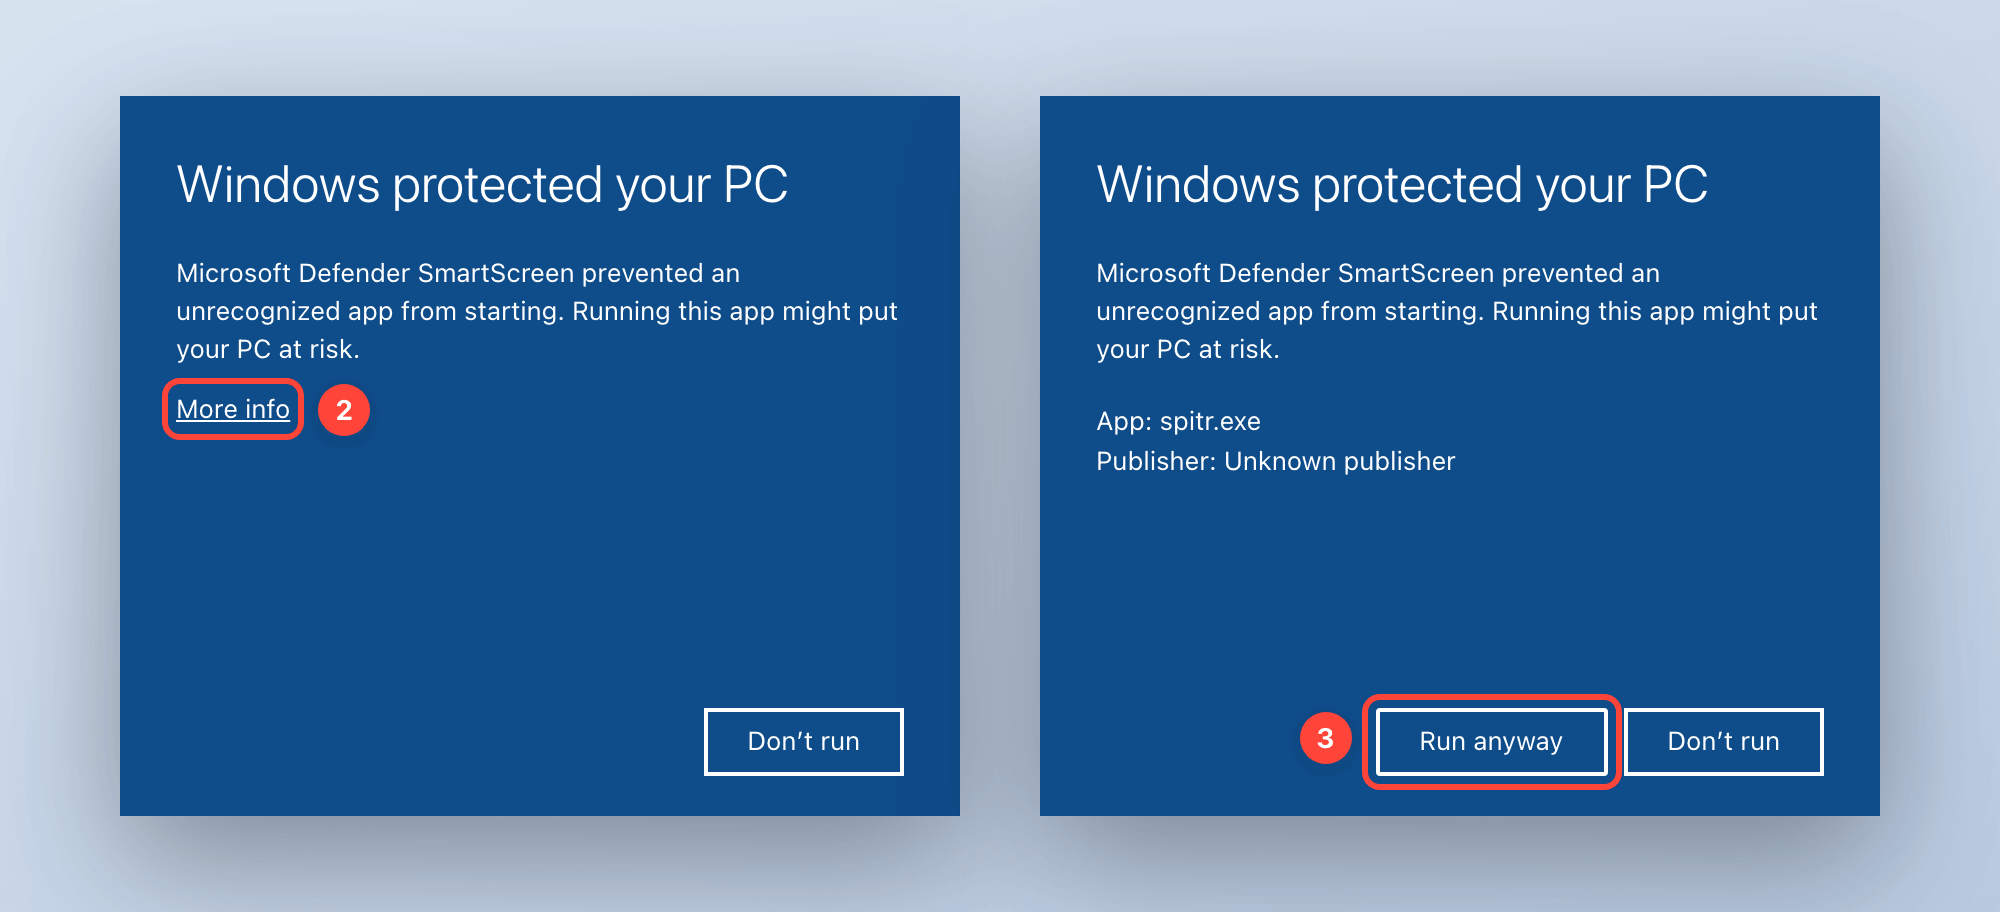
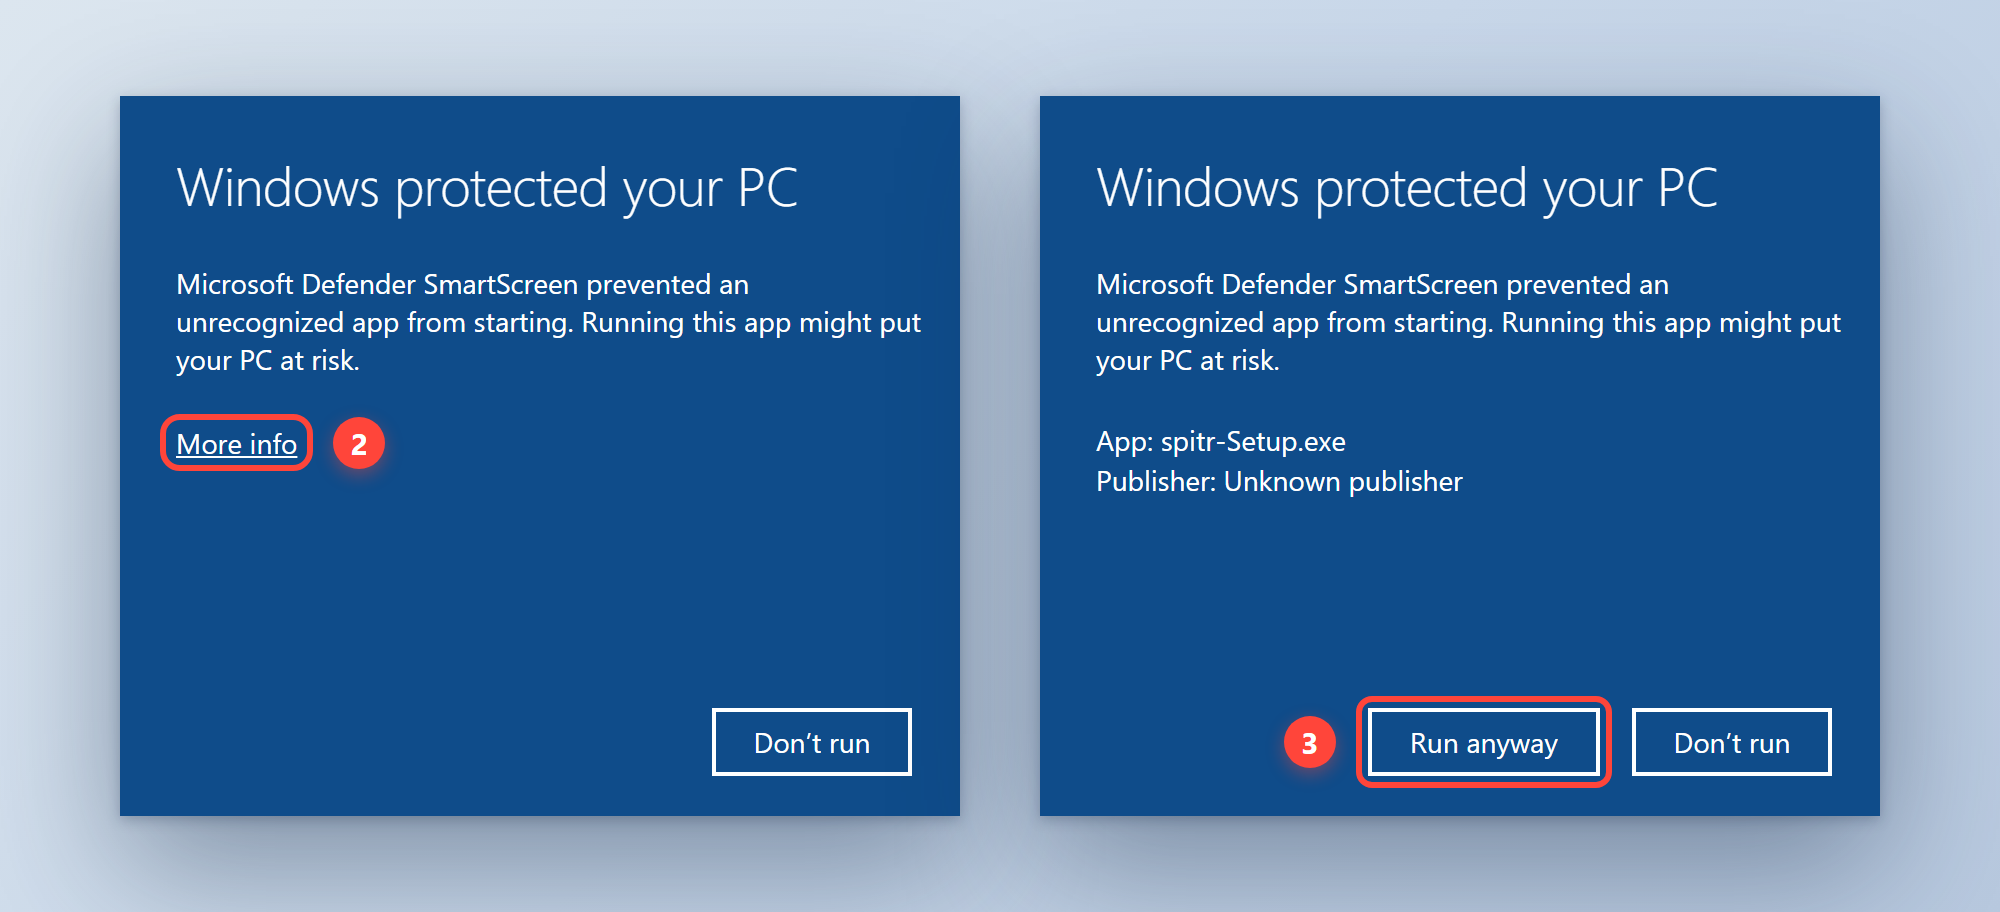
docs(windows): install guide for the Setup installer
Setup.exe replaces the zip, the speech model downloads itself, updates are
automatic, uninstall goes through Settings. New illustrations for the download,
SmartScreen and model-download steps; the setup-assistant picture now matches
the app's wording. Velopack added to the third-party notices and the Parakeet
Windows source now names Hugging Face.

diff --git a/docs/install-windows.md b/docs/install-windows.md
@@ -6,47 +6,49 @@ Requires 64-bit Windows 10 (version 2004 or later) or Windows 11. spitr for Wind
 > The pictures below are illustrations of each step, not screenshots. The buttons and settings you
 > click have the names Windows shows; the surrounding wording can differ slightly between versions.
 
-## 1. Download and unpack
+## 1. Download and run Setup
 
-1. Open the [releases page](https://github.com/MotionComplex/spitr-releases/releases) and download
-   `spitr-win-x64-<version>.zip` from the newest *spitr for Windows* release.
-2. Right-click the zip → **Extract All...** → choose a folder you keep, for example
-   `C:\Users\<you>\Apps\spitr`. spitr runs from that folder; there is no installer and no .NET to
-   install.
+1. Open the [releases page](https://github.com/MotionComplex/spitr-releases/releases) and, in the
+   newest *spitr for Windows* release, download `spitr-Setup.exe` from the **Assets** list. The
+   other files in that list are not needed for a normal install.
+2. Double-click `spitr-Setup.exe` (your browser shows it in its downloads, or open your
+   **Downloads** folder).
 
-![Right-click the zip → Extract All](images/win-1-extract.png)
+![The release's asset list, spitr-Setup.exe marked](images/win-1-download.png)
 
 ## 2. Allow the first launch
 
-The build is not code-signed, so Microsoft Defender SmartScreen stops the first launch.
+The build is not code-signed, so Microsoft Defender SmartScreen stops Setup the first time.
 
-1. Double-click `spitr.exe`. In *Windows protected your PC*, click **More info**.
-2. Check that the app is `spitr.exe`, then click **Run anyway**.
+1. In *Windows protected your PC*, click **More info**.
+2. Check that the app is `spitr-Setup.exe`, then click **Run anyway**.
 
 ![SmartScreen: More info, then Run anyway](images/win-2-smartscreen.png)
 
-Only do this for a zip you downloaded from
+Only do this for a file you downloaded from
 [github.com/MotionComplex/spitr-releases](https://github.com/MotionComplex/spitr-releases/releases).
 
-## 3. Install the speech model
+Setup installs spitr for your own Windows account only, so it does not need administrator rights.
+It puts spitr in your Start menu, adds a shortcut on your Desktop, lists it under **Settings →
+Apps**, and starts it. spitr's icon appears in the tray next to the clock; if you do not see it,
+click the **^** there. This is the only time SmartScreen stops you: updates (below) are installed
+by spitr itself and do not ask again.
 
-On Windows the speech model is not downloaded automatically yet. spitr expects NVIDIA Parakeet v3
-(the sherpa-onnx export, about 465 MB) in `%APPDATA%\spitr\models`. Open **PowerShell** (Start →
-type *PowerShell* → Enter) and paste:
+## 3. Wait for the speech model
 
-```powershell
-$dst = "$env:APPDATA\spitr\models"
-$tmp = Join-Path $env:TEMP "spitr-model"
-New-Item -ItemType Directory -Force $dst, $tmp | Out-Null
-curl.exe -L -o "$tmp\parakeet.tar.bz2" "https://github.com/k2-fsa/sherpa-onnx/releases/download/asr-models/sherpa-onnx-nemo-parakeet-tdt-0.6b-v3-int8.tar.bz2"
-tar -xf "$tmp\parakeet.tar.bz2" -C $tmp
-Get-ChildItem $tmp -Recurse -Include *.onnx, tokens.txt | Move-Item -Destination $dst -Force
-Remove-Item $tmp -Recurse -Force
-```
+The first launch opens the setup assistant. Row **01 · SPEECH MODEL** downloads NVIDIA Parakeet v3
+for you (about 670 MB, from Hugging Face) and shows how far it has got. There is nothing to
+click: keep spitr running and your computer online. If the download is interrupted (you quit
+spitr, you go offline, the computer restarts), spitr continues from where it stopped the next time
+it starts. Each file is checked against a checksum before it is used.
 
-Afterwards `%APPDATA%\spitr\models` contains three `.onnx` files (encoder, decoder, joiner) and
-`tokens.txt`. The setup assistant (step 5) shows a green dot in row 01 once spitr finds them; if
-one is missing, the row names it and opens the folder.
+![The setup assistant while the speech model downloads](images/win-3-model.png)
+
+When it is done, the row shows a green **OK**, spitr says *Speech model ready*, and transcription
+runs on your computer from then on. You can do step 4 while the download runs.
+
+The model lives in `%APPDATA%\spitr\models`. If a complete Parakeet model is already there, spitr
+uses it and does not download anything.
 
 ## 4. Allow the microphone
 
@@ -61,13 +63,14 @@ Privacy & security → Microphone** and turn on:
 Nothing else needs to be granted: the dictation key and typing into other apps work without a
 permission on Windows.
 
-## 5. Run the setup assistant
+## 5. Finish the setup assistant
 
-The first launch opens the setup assistant; reopen it any time from the tray icon →
-**Setup Assistant…**. Rows 01 and 02 turn green when the model and the microphone are ready.
+Reopen it any time from the tray icon → **Setup Assistant…**. Rows 01 and 02 show a green **OK**
+when the model and the microphone are ready; the **START DICTATING** button is available once they
+are, and closes the window.
 Row 03 is optional: paste the API key of your cleanup provider and click **SAVE**. The provider
 (Anthropic, OpenAI, Groq, OpenRouter, Ollama or any OpenAI-compatible endpoint) is chosen under
-tray icon → **Settings…**. Without a key spitr types the raw
+tray icon → **Settings…**, and the row is named after it. Without a key spitr types the raw
 on-device transcript. Your key and your provider's terms and prices are your own; see
 [PRIVACY.md](../PRIVACY.md) for what is sent where.
 
@@ -82,20 +85,46 @@ cursor. **Esc** while recording cancels. Select text and press **Ctrl+Alt+S** to
 
 ## Updates
 
-spitr for Windows does not update itself yet. Download the new zip, quit spitr from the tray icon,
-and replace the files in your spitr folder. Settings, keys and the model live in `%APPDATA%\spitr`
-and stay.
+spitr updates itself. Half a minute after it starts, and then once a day, it looks for a newer
+*spitr for Windows* release and downloads it in the background. The update is installed the next
+time spitr restarts or you quit it from the tray; nothing interrupts what you are doing.
+
+- **Install it now:** once an update has been downloaded, the tray menu shows **Restart to
+  Update (x.y.z)**. Click it and spitr restarts into the new version.
+- **Look now:** tray icon → **Check for Updates…**.
+
+Updates need no SmartScreen click. Your settings, keys and the speech model live in
+`%APPDATA%\spitr` and stay.
+
+## Moving from the zip version
+
+Earlier Windows releases came as a zip you unpacked into a folder. To switch:
+
+1. Quit the old spitr from its tray icon (**Quit spitr**).
+2. Install with Setup, steps 1 and 2 above.
+3. Delete the old folder. Your settings, API keys and speech model are in `%APPDATA%\spitr`, not in
+   that folder, so the installed spitr picks them up as they were; the model is not downloaded
+   again.
+4. If **Launch at Login** was on, the installed spitr re-points it to itself the first time it
+   runs, so it keeps working without any change from you.
 
 ## Troubleshooting
 
 | Symptom | Fix |
 | --- | --- |
-| Tray shows *Model error* | The model files are not directly in `%APPDATA%\spitr\models`. Run step 3 again. |
+| Row 01 reports that the download failed (the tray says *Speech model download failed*) | Tray icon → **Setup Assistant…** → **RETRY DOWNLOAD**. It carries on and checks every file. The row names the cause: for *Not enough free space*, free up room on the drive it names (the download needs just under 1 GB free: the 670 MB model plus a safety margin; the row gives the exact figure); for a connection or checksum error, check that your firewall, VPN or proxy lets spitr reach `huggingface.co` (it sends the download on to its own file servers), then retry. |
+| Row 01 says the speech model looks damaged | Click **RETRY DOWNLOAD** in the same row: it replaces any file that is wrong and keeps the rest. |
 | The recording island appears but no text arrives | Microphone settings from step 4, and the right input device in **Settings → System → Sound**. |
 | Text does not appear in an admin window (e.g. an elevated terminal) | Windows blocks input from normal apps into elevated ones. Run spitr as administrator for that window, or use a normal window. |
 | Text arrives unpolished | No cleanup key set, or the provider rejected it. Tray icon → **Check Permissions** shows the cleanup status. |
+| The tray menu has no **Check for Updates…** | Only a copy installed with Setup updates itself. Quit this copy, install with Setup (step 1) and delete the old folder. |
 
 ## Uninstall
 
-Quit spitr from the tray icon, delete your spitr folder, and delete `%APPDATA%\spitr` (it holds
-your settings, your API keys and the speech model).
+Open **Settings → Apps** (*Installed apps* on Windows 11, *Apps & features* on Windows 10), find
+**spitr** and choose **Uninstall**. That removes the program, its Start-menu and Desktop shortcuts,
+its entry in the Apps list and the Launch at Login entry.
+
+It keeps `%APPDATA%\spitr`, which holds your settings, your API keys and the speech model (about
+670 MB), so a later install picks up where you left off. To remove everything, delete that folder
+by hand afterwards: press **Win+R**, type `%APPDATA%`, press Enter, and delete the `spitr` folder.

diff --git a/THIRD_PARTY_NOTICES.md b/THIRD_PARTY_NOTICES.md
@@ -13,9 +13,9 @@ spitr uses converted versions of this model, which are also CC BY 4.0:
 
 - macOS: the CoreML conversion by FluidInference,
   [huggingface.co/FluidInference/parakeet-tdt-0.6b-v3-coreml](https://huggingface.co/FluidInference/parakeet-tdt-0.6b-v3-coreml).
-- Windows: the sherpa-onnx export by the k2-fsa project,
-  `sherpa-onnx-nemo-parakeet-tdt-0.6b-v3-int8`,
-  [github.com/k2-fsa/sherpa-onnx](https://github.com/k2-fsa/sherpa-onnx/releases/tag/asr-models).
+- Windows: the sherpa-onnx export `sherpa-onnx-nemo-parakeet-tdt-0.6b-v3-int8`, published on
+  Hugging Face by csukuangfj, a maintainer of the k2-fsa project's sherpa-onnx,
+  [huggingface.co/csukuangfj/sherpa-onnx-nemo-parakeet-tdt-0.6b-v3-int8](https://huggingface.co/csukuangfj/sherpa-onnx-nemo-parakeet-tdt-0.6b-v3-int8).
 
 The model is downloaded from these sources, not distributed in this repository. spitr does not
 modify it.
@@ -27,6 +27,7 @@ modify it.
 | FluidAudio | macOS | Apache License 2.0 | [github.com/FluidInference/FluidAudio](https://github.com/FluidInference/FluidAudio) |
 | Sparkle | macOS | MIT-style licence (Sparkle `LICENSE`) | [github.com/sparkle-project/Sparkle](https://github.com/sparkle-project/Sparkle) |
 | sherpa-onnx (`org.k2fsa.sherpa.onnx`) | Windows | Apache License 2.0 | [github.com/k2-fsa/sherpa-onnx](https://github.com/k2-fsa/sherpa-onnx) |
+| Velopack | Windows | MIT | [github.com/velopack/velopack](https://github.com/velopack/velopack) |
 | NAudio | Windows | MIT | [github.com/naudio/NAudio](https://github.com/naudio/NAudio) |
 | System.Speech | Windows | MIT | [github.com/dotnet/runtime](https://github.com/dotnet/runtime) |
 | .NET runtime (bundled) | Windows | MIT | [github.com/dotnet/runtime](https://github.com/dotnet/runtime) |

diff --git a/README.md b/README.md
@@ -12,7 +12,7 @@ This repository hosts the builds and the update feed. The source code is private
 | | Requirements | Get it |
 | --- | --- | --- |
 | **macOS** | macOS 14 or later, Apple silicon (M1 or newer) | `spitr-<version>.dmg` from the [latest release](https://github.com/MotionComplex/spitr-releases/releases/latest) |
-| **Windows** (pre-release) | 64-bit Windows 10 (2004 or later) or Windows 11 | `spitr-win-x64-<version>.zip` from the newest *spitr for Windows* entry on the [releases page](https://github.com/MotionComplex/spitr-releases/releases) |
+| **Windows** (pre-release) | 64-bit Windows 10 (2004 or later) or Windows 11 | `spitr-Setup.exe` from the newest *spitr for Windows* entry on the [releases page](https://github.com/MotionComplex/spitr-releases/releases) |
 
 Both are free.
 
@@ -22,8 +22,8 @@ Step by step, with a picture of every dialog:
 
 - **[Install on macOS](docs/install-macos.md):** allow the first launch, then grant Microphone and
   Accessibility.
-- **[Install on Windows](docs/install-windows.md):** get past SmartScreen, install the speech
-  model, allow the microphone.
+- **[Install on Windows](docs/install-windows.md):** run Setup and get past SmartScreen, the speech
+  model downloads itself, allow the microphone.
 
 ## Quick start
 
